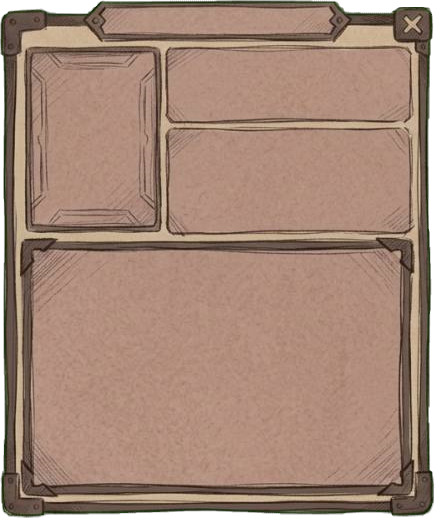
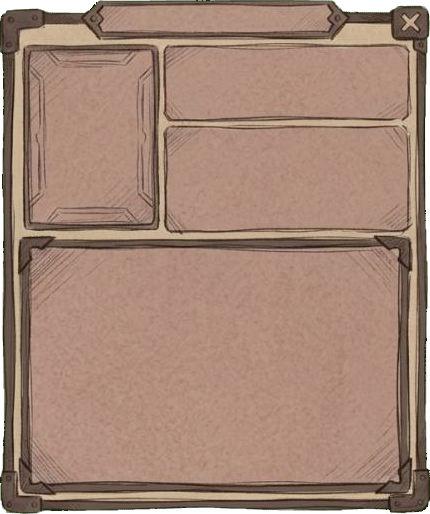
Improve unit information window readability

Changed region(s): [[0.0, 0.0, 1.0, 1.0], [0.8465, 0.4358, 0.8767, 0.4669], [0.1209, 0.4047, 0.1512, 0.4358]]

diff --git a/v2-auto-battle-practice.css b/v2-auto-battle-practice.css
@@ -155,7 +155,7 @@ button, a { font: inherit; }
 .unit-info-overlay { position: absolute; z-index: 90; inset: 0; display: flex; align-items: center; justify-content: flex-start; gap: 1.8%; padding: 3.5% 5%; }
 .unit-info-overlay[hidden] { display: none; }
 .unit-info-backdrop { position: absolute; inset: 0; width: 100%; height: 100%; border: 0; background: #030201c4; backdrop-filter: blur(2px); }
-.unit-info-panel { position: relative; z-index: 1; height: min(90%, 650px); aspect-ratio: 435 / 518; overflow: hidden; border: 0; background: #c9aaa0; box-shadow: 0 18px 42px #000e; }
+.unit-info-panel { position: relative; z-index: 1; height: min(90%, 650px); aspect-ratio: 430 / 514; overflow: hidden; border: 0; background: #c9aaa0; box-shadow: 0 18px 42px #000e; }
 .unit-info-frame-art { position: absolute; z-index: 0; inset: 0; width: 100%; height: 100%; pointer-events: none; user-select: none; }
 .legion-info-panel { position: relative; z-index: 1; flex-shrink: 0; width: min(42%, 520px); aspect-ratio: 643 / 470; overflow: hidden; background: transparent; clip-path: polygon(2% 0, 98% 0, 100% 4%, 100% 96%, 98% 100%, 2% 100%, 0 96%, 0 4%); }
 .legion-info-frame-art { position: absolute; z-index: 0; inset: 0; width: 100%; height: 100%; pointer-events: none; user-select: none; }
@@ -168,22 +168,22 @@ button, a { font: inherit; }
 .legion-info-content .legion-overview li { font-size: clamp(7px, .82vw, 10px); }
 .unit-info-panel > header { position: absolute; z-index: 2; top: .5%; left: 19%; display: grid; place-items: center; width: 62%; height: 7.6%; padding: 0; border: 0; background: transparent; }
 .unit-info-panel > header span { display: none; }
-.unit-info-panel > header h2 { max-width: 100%; margin: 0; overflow: hidden; color: #3b2d25; font: 900 clamp(9px, 1.35vw, 17px)/1 Georgia, "Malgun Gothic", serif; text-overflow: ellipsis; text-shadow: none; white-space: nowrap; }
+.unit-info-panel > header h2 { max-width: 100%; margin: 0; overflow: hidden; color: #211712; font: 1000 clamp(14px, 1.7vw, 22px)/1 Georgia, "Malgun Gothic", serif; text-overflow: ellipsis; text-shadow: 0 1px 0 #f5ddc8; white-space: nowrap; }
 #unitInfoClose { position: absolute; z-index: 4; top: 1%; right: .5%; display: grid; place-items: center; width: 7.7%; aspect-ratio: 1; padding: 0; border: 0; background: transparent; color: transparent; font-size: 0; text-shadow: none; cursor: pointer; }
 .unit-info-summary { position: absolute; z-index: 2; top: 9.6%; left: 5%; display: grid; grid-template-columns: 31.5% 1fr; width: 90%; height: 35.2%; min-height: 0; padding: 0; gap: 2%; }
 .unit-info-portrait { min-width: 0; min-height: 0; overflow: hidden; border: 0; background: transparent; }
 .unit-info-portrait svg { display: block; width: 100%; height: 100%; }
 .unit-info-fields { display: grid; grid-template-rows: 42% minmax(0, 1fr); gap: 3%; min-width: 0; min-height: 0; }
 .unit-info-basic, .unit-info-stats { display: flex; flex-direction: column; justify-content: center; min-height: 0; padding: 3% 8%; overflow: auto; border: 0; background: transparent; }
-.unit-info-fields h3 { margin: 0 0 4%; color: #49362c; font-size: clamp(8px, 1vw, 12px); line-height: 1.2; text-align: center; }
+.unit-info-fields h3 { margin: 0 0 4%; color: #291d17; font-size: clamp(12px, 1.2vw, 16px); font-weight: 1000; line-height: 1.2; text-align: center; text-shadow: 0 1px 0 #f3d8c3; }
 .unit-info-values { display: grid; gap: 3px; margin: 0; }
 .unit-info-values > div { display: flex; align-items: baseline; justify-content: space-between; gap: 6px; min-width: 0; border: 0; background: transparent; }
-.unit-info-values dt { color: #5c4739; font-size: clamp(8px, .85vw, 11px); line-height: 1.3; }
-.unit-info-values dd { margin: 0; color: #2f2520; font-size: clamp(9px, 1vw, 13px); font-weight: 900; line-height: 1.3; white-space: nowrap; }
+.unit-info-values dt { color: #3e2d24; font-size: clamp(11px, 1.05vw, 15px); font-weight: 800; line-height: 1.3; }
+.unit-info-values dd { margin: 0; color: #17100d; font-size: clamp(12px, 1.2vw, 17px); font-weight: 1000; line-height: 1.3; text-shadow: 0 1px 0 #f3d8c3; white-space: nowrap; }
 #unitInfoLegion { white-space: normal; text-align: right; overflow-wrap: anywhere; }
 .unit-info-detail { position: absolute; z-index: 2; top: 47.2%; right: 5%; bottom: 4.8%; left: 5%; margin: 0; padding: 6% 6.5%; border: 0; background: transparent; }
-.unit-info-detail h3 { margin: 0 0 4%; color: #49362c; font: 900 clamp(8px, 1vw, 12px)/1 Georgia, "Malgun Gothic", serif; text-align: center; text-shadow: none; }
-.unit-info-detail p { margin: 0; color: #49382e; font-size: clamp(7px, .85vw, 11px); line-height: 1.55; }
+.unit-info-detail h3 { margin: 0 0 4%; color: #291d17; font: 1000 clamp(12px, 1.2vw, 16px)/1 Georgia, "Malgun Gothic", serif; text-align: center; text-shadow: 0 1px 0 #f3d8c3; }
+.unit-info-detail p { margin: 0; color: #2b201a; font-size: clamp(11px, 1vw, 15px); font-weight: 750; line-height: 1.5; }
 .unit-info-brands { max-height: 85%; overflow: auto; }
 .unit-info-empty { padding-top: 8%; text-align: center; }
 .battle-overlay { position: absolute; z-index: 80; inset: 0; display: grid; place-items: center; padding: 16px; background: #040302b8; backdrop-filter: blur(3px); }
@@ -275,11 +275,11 @@ button, a { font: inherit; }
   72% { opacity: 1; transform: translate(-50%, -26px) scale(1); }
   100% { opacity: 0; transform: translate(-50%, -43px) scale(.9); }
 }
-.unit-info-brands h4 { margin: 0 0 8px; color: #f2d299; font-size: clamp(10px, 1.25vw, 15px); }
+.unit-info-brands h4 { margin: 0 0 8px; color: #211712; font-size: clamp(13px, 1.35vw, 18px); font-weight: 1000; }
 .brand-heading { display: flex; align-items: center; gap: 8px; margin-bottom: 10px; }
 .brand-icon { display: block; flex: 0 0 auto; width: clamp(32px, 4.5vw, 50px); height: clamp(32px, 4.5vw, 50px); overflow: hidden; border-radius: 12%; background: #191513; }
 .unit-info-brands .brand-heading h4 { margin: 0; min-width: 0; }
-.unit-info-brands p { margin: 0 0 9px; font-size: clamp(8px, .95vw, 12px); }
-.unit-info-brands .brand-blessing { color: #a8d6ac; }
-.unit-info-brands .brand-curse { color: #e7a098; }
-.unit-info-brands .brand-example, .unit-info-brands .brand-note { color: #b6a58d; font-size: clamp(7px, .85vw, 11px); }
+.unit-info-brands p { margin: 0 0 9px; font-size: clamp(11px, 1vw, 15px); }
+.unit-info-brands .brand-blessing { color: #1f5a2d; font-weight: 900; }
+.unit-info-brands .brand-curse { color: #792c27; font-weight: 900; }
+.unit-info-brands .brand-example, .unit-info-brands .brand-note { color: #49372d; font-size: clamp(10px, .95vw, 14px); font-weight: 700; }

diff --git a/test_v2_auto_battle.js b/test_v2_auto_battle.js
@@ -32,7 +32,7 @@ assert(html.includes('id="turnDiceButton"'), "Between-turn dice control is missi
 assert(html.includes('id="unitInfoOverlay"'), "Unit information window is missing.");
 assert(html.includes('id="unitInfoImage"'), "Unit information portrait is missing.");
 assert(html.includes('class="unit-info-frame-art"') && html.includes("art/v2-style/ui/unit-info-window.png"), "Cropped unit information window art is missing.");
-assert(html.includes("unit-info-window.png?v=2"), "Unit information window cache version is stale.");
+assert(html.includes("unit-info-window.png?v=3"), "Unit information window cache version is stale.");
 assert(html.includes("legion-info-window-hd.png?v=2"), "Legion information window cache version is stale.");
 assert(html.includes('id="unitInfoHp"') && html.includes('id="unitInfoAttack"') && html.includes('id="unitInfoSpeed"'), "Basic unit stats are missing.");
 const basicPanel = html.match(/<section class="unit-info-basic"[\s\S]*?<\/section>/)?.[0] || "";
@@ -134,9 +134,9 @@ for (const slug of ["death-knight", "skeleton-spear", "ghoul", "ancient-treant",
   }
 }
 
-assert(worker.includes('necromancer-expedition-v227'), "Service worker cache version was not advanced.");
+assert(worker.includes('necromancer-expedition-v228'), "Service worker cache version was not advanced.");
 assert(worker.includes("v2-auto-battle-practice.html"), "Auto battle page is not cached.");
-assert(worker.includes("v2-auto-battle-practice.css?v=49"), "Turn dice, lineup picker and illustrated unit info styling is not cached.");
+assert(worker.includes("v2-auto-battle-practice.css?v=50"), "Turn dice, lineup picker and illustrated unit info styling is not cached.");
 assert(worker.includes("v2-auto-battle-practice.js?v=57") && worker.includes("v2-legions.js?v=3") && worker.includes("v2-battle-brands.js?v=3"), "Turn-based status battle logic is not cached.");
 assert(source.includes('serviceWorker.register("./service-worker.js", { updateViaCache: "none" })'), "The standalone battle page must request service-worker updates directly.");
 assert(worker.includes('new Request(event.request, { cache: "reload" })'), "Navigation must bypass stale browser HTTP cache before updating the offline copy.");

diff --git a/v2-auto-battle-practice.html b/v2-auto-battle-practice.html
@@ -5,7 +5,7 @@
   <meta name="viewport" content="width=device-width, initial-scale=1, viewport-fit=cover">
   <meta name="theme-color" content="#0a0807">
   <title>4대4 속도 자동전투 테스트</title>
-  <link rel="stylesheet" href="v2-auto-battle-practice.css?v=49">
+  <link rel="stylesheet" href="v2-auto-battle-practice.css?v=50">
 </head>
 <body>
   <main class="auto-battle-lab">
@@ -42,7 +42,7 @@
       <section id="unitInfoOverlay" class="unit-info-overlay" hidden>
         <button id="unitInfoBackdrop" class="unit-info-backdrop" type="button" aria-label="유닛 정보 닫기"></button>
         <article class="unit-info-panel" role="dialog" aria-modal="true" aria-labelledby="unitInfoName">
-          <img class="unit-info-frame-art" src="art/v2-style/ui/unit-info-window.png?v=2" alt="" aria-hidden="true">
+          <img class="unit-info-frame-art" src="art/v2-style/ui/unit-info-window.png?v=3" alt="" aria-hidden="true">
           <header>
             <span>UNIT STATUS</span>
             <h2 id="unitInfoName">유닛 정보</h2>

diff --git a/service-worker.js b/service-worker.js
@@ -1,4 +1,4 @@
-const CACHE_NAME = "necromancer-expedition-v227";
+const CACHE_NAME = "necromancer-expedition-v228";
 const APP_SHELL = [
   "./",
   "./index.html",
@@ -46,7 +46,7 @@ const APP_SHELL = [
   "./v2-map-practice.js?v=5",
   "./v2-landscape.js?v=1",
   "./v2-auto-battle-practice.html",
-  "./v2-auto-battle-practice.css?v=49",
+  "./v2-auto-battle-practice.css?v=50",
   "./v2-battle-brands.js?v=3",
   "./v2-legions.js?v=3",
   "./v2-auto-battle-practice.js?v=57",
@@ -197,7 +197,7 @@ const APP_SHELL = [
   "./art/v2-style/battle-backgrounds/uploaded-raw/wasteland-chasm-battlefield.jpg",
   "./art/v2-style/battle-backgrounds/uploaded-raw/haunted-forest-ruins-battlefield.jpg",
   "./art/v2-style/battle-backgrounds/uploaded-raw/necropolis-pyramids-battlefield.jpg",
-  "./art/v2-style/ui/unit-info-window.png?v=2",
+  "./art/v2-style/ui/unit-info-window.png?v=3",
   "./art/v2-style/processed/192/ghoul.png",
   "./art/v2-style/processed/192/goblin-rider.png",
   "./art/v2-style/processed/192/ogre.png",
